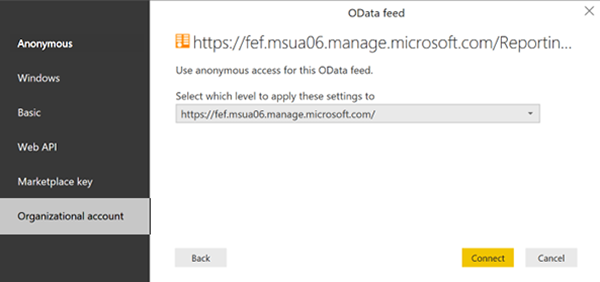
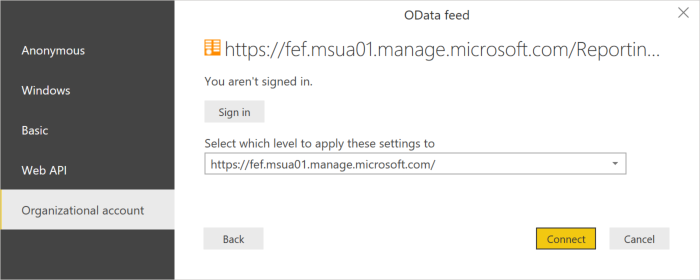
erikre-DOC-1585295

diff --git a/intune/reports-proc-create-with-odata.md b/intune/reports-proc-create-with-odata.md
@@ -1,13 +1,13 @@
 ---
 # required metadata
-title: Create a report from the OData feed with Power BI
+title: Create a Intune report from the OData feed with Power BI
 titleSuffix: Microsoft Intune
 description: Create a treemap visualization using Power BI Desktop with an interactive filter from the Intune Data Warehouse API.
 keywords: Intune Data Warehouse
 author: Erikre
 ms.author: erikre
 manager: dougeby
-ms.date: 07/08/2019
+ms.date: 08/15/2019
 ms.topic: reference
 ms.service: microsoft-intune
 ms.localizationpriority: medium
@@ -26,13 +26,13 @@ ms.custom: intune-classic
 ms.collection: M365-identity-device-management
 ---
 
-# Create a report from the OData feed with Power BI
+# Create an Intune report from the OData feed with Power BI
 
-This article explains how to create a treemap visualization using Power BI Desktop with an interactive filter. For example, your CFO might like to how the overall distribution of devices compares to just company owned to personal devices. The treemap provides insight into the total number of device types. You can review the number of iOS, Android, and Windows devices that are either company owned or personally owned.
+This article explains how to create a treemap visualization of your Intune data using Power BI Desktop that users an interactive filter. For example, your CFO might like to know how the overall distribution of devices compares between company owned deviceds and personal devices. The treemap provides insight into the total number of device types. You can review the number of iOS, Android, and Windows devices that are either company owned or personally owned.
 
 ## Overview of creating the chart
 
-To create this chart, you must:
+To create this chart, you will:
 1. Install Power BI Desktop if you don't already have it.
 2. Connect to the Intune Data Warehouse data model and retrieve current data for the model.
 3. Create or manage the data model relationships.
@@ -44,7 +44,7 @@ To create this chart, you must:
 
 You work with tables in Power BI. A table contains data fields. Each data field has a data type. The field can only contain data of the data type. Data types are numbers, text, dates, and so on. The tables in Power BI fill with recent historical data from your tenant when you load the model. Although the specific data changes with time, the table structure won't change unless the underlying data model is updated.
 
-You may be confused by the use of the term _entity_ and _table_. The data model is accessible through an OData feed. In the universe of the OData, the containers that are called tables in Power BI are called entities. These terms both refer to the same thing that holds your data.
+You may be confused by the use of the term *entity* and *table*. The data model is accessible through an OData (Open Data Protocol) feed. In the universe of the OData, the containers that are called tables in Power BI are called entities. These terms both refer to the same thing that holds your data. For more information about OData, see the [OData Overview](/odata/overview).
 
 ## Install Power BI Desktop
 
@@ -56,49 +56,49 @@ Install the latest version of Power BI Desktop. You can download Power BI Deskto
 > You need permission to **Reports** in Intune. For more information, see [Authorization](reports-api-url.md).
 
 1. Sign in to [Intune](https://go.microsoft.com/fwlink/?linkid=2090973).
-3. Open the **Intune Data Warehouse** pane by selecting the Data Warehouse link under **Other tasks** on the right side of the **Microsoft Intune - Overview** blade.
-4. Copy the custom feed URL. For example:
+2. Open the **Intune Data Warehouse** pane by selecting the Data Warehouse link under **Other tasks** on the right side of the **Microsoft Intune - Overview** blade.
+3. Copy the custom feed URL. For example:
 `https://fef.tenant.manage.microsoft.com/ReportingService/DataWarehouseFEService?api-version=beta`
-1. Open Power BI Desktop.
-2. Choose **Get Data** > **Odata feed**.
-3. Paste the custom feed URL into the URL box in the **OData feed** window.
-4. Select **Basic**.
+4. Open Power BI Desktop.
+5. From the menubar, select **File** > **Get Data** > **Odata feed**.
+6. Paste the custom feed URL, that you copied from the earlier step, into the URL box in the **OData feed** window.
+7. Select **Basic**.
 
     ![OData feed for the Intune Data Warehouse for your tenant](media/reports-create-01-odatafeed.png)
 
-9. Select **OK**.
-10. Select **Organization account**, and then sign in with your Intune credentials.
+8. Select **OK**.
+9. Select **Organization account**, and then sign in with your Intune credentials.
 
     ![Organizational account credentials](media/reports-create-02-org-account.png)
 
-11. Select **Connect**. The Navigator will open and show you the list of tables in the Intune Data Warehouse.
+10. Select **Connect**. The Navigator will open and show you the list of tables in the Intune Data Warehouse.
 
     ![Screenshot of the Navigator - The list of Data Warehouse tables](media/reports-create-02-loadentities.png)
 
-12. Select the **devices** and the **ownerTypes** tables.  Select **Load**. Power BI loads data to the model.
+11. Select the **devices** and the **ownerTypes** tables.  Select **Load**. Power BI loads data to the model.
 
 ## Create a relationship
 
-You can import multiple tables to analyze not just the data in a single table but related data across tables.  PowerBI has a feature called **autodetect** that attempts to find and create relationships for you. The tables in the Data Warehouse have been built to work with PowerBI's autodetect feature. However, even if PowerBI doesn't automatically find the relationships you still manage the relationships.
+You can import multiple tables to analyze not just the data in a single table but related data across tables.  PowerBI has a feature called **autodetect** that attempts to find and create relationships for you. The tables in the Data Warehouse have been built to work with PowerBI's autodetect feature. However, even if PowerBI doesn't automatically find the relationships, you can still manage the relationships.
 
 ![Manage relationships of related data across tables](media/reports-create-03-managerelationships.png)
 
 1. Select **Manage Relationships**.
 2. Select **Autodetect...** if PowerBI has not already detected the relationships.
 
-The relationship is displayed in a From column to a To column. In this example, the data field **ownerTypeKey** in the **devices** table links to the data field **ownerTypeKey** in the **ownerTypes** table. You use the relationship to look up plain name of the device type code in the **devices** table.
+The relationship is displayed in a From column to a To column. In this example, the data field **ownerTypeKey** in the **devices** table links to the data field **ownerTypeKey** in the **ownerTypes** table. You use the relationship to look up the plain name of the device type code in the **devices** table.
 
 ## Create a treemap visualization
 
-A treemap chart shows hierarchical data as boxes with in boxes. Each branch of the hierarchy is a box contains smaller boxes showing subbranches. You can use Power BI desktop to create a treemap of your Intune data.
+A treemap chart shows hierarchical data as boxes within boxes. Each branch of the hierarchy is a box contains smaller boxes showing sub-branches. You can use Power BI desktop to create a treemap of your Intune tenant data that shows relative amounts of device manufacturer types.
 
 ![Power BI treemap visualizations](media/reports-create-03-treemap.png)
 
-1. Select a chart type. Select **Treemap**.
-2. In the data model, find the **devices** table.
-3. Expand the **devices table** and select the **manufacturer** data field in the **Fields** panel.
-4. Drag the **manufacturer** data field to the Treemap chart on the report canvas.
-5. Drag the **deviceKey** data field from the **devices** table to the **Values** section under the **Visualizations** pane and drop on the box labeled **Drag data field here**.  
+1. In the **Visualizations** pane, find and select **Treemap**. The **Treemap** chart will be added to the report canvas.
+2. In the **Fields** pane, find the `devices` table.
+3. Expand the `devices` table and select the `manufacturer` data field.
+4. Drag the `manufacturer` data field to the report canvas and drop it on the **Treemap** chart.
+5. Drag the `deviceKey` data field from the `devices` table to the **Visualizations** pane and drop it on under the **Values** section in the box labeled **Add data fields here**.  
 
 You now have a visual that shows the distribution of manufacturers of devices within your organization.
 
@@ -108,18 +108,19 @@ You now have a visual that shows the distribution of manufacturers of devices wi
 
 You can add a filter to your treemap so that you can answer additional questions using your app.
 
+1. To add a filter, select the report canvas, and then select the **Slicer icon** (![Treemap with data model and supported relationships](media/reports-create-slicer.png)) under **Visualizations**. The empty **Slicer** visualization will appear on the canvas.
+2. In the **Fields** pane, find the `ownerTypes` table.
+3. Expand the `ownerTypes` table and select the `ownerTypeName` data field.
+4. Drag the `onwerTypeName` data field from the `ownerTypes` table to the **Filters** pane and drop it on under the **Filters on this page** section in the box labeled **Add data fields here**.  
 
-1. To add a filter, select the report canvas, and then select the **Slicer icon** (![Treemap with data model and supported relationships](media/reports-create-slicer.png)) under **Visualizations**.
-2. Find the **ownerTypes** table and drag the **ownerTypeName** data field under the **Filters** section in the **Visualizations** panel.  
-
-   Under the devices table, there's a data field called **OwnerTypeKey** that contains a code as to whether a device is company-owned or personal. Since you would like to show friendly names in this filter, look for the **ownerTypes** table and drag the **ownerTypeName**. This example shows how the data model supports relationships between tables.
+   Under the `OwnerTypes` table, there's a data field called `OwnerTypeKey`that contains a data as to whether a device is company-owned or personal. Since you would like to show friendly names in this filter, look for the `ownerTypes` table and drag the **ownerTypeName** to the Slicer. This example shows how the data model supports relationships between tables.
 
 ![Treemap with filter - Supports relationships between tables](media/reports-create-08_ownertype.png)
 
 You now have an interactive filter that can be used to toggle between company owned and personally owned devices. Use this filter to see how the distribution changes.
 
-1. Select **Company** to see that the company owned device distribution.
-2. Select **Personal** to see the personally owned devices.
+1. Select **Company** within the Slicer to see that the company owned device distribution.
+2. Select **Personal** within the Slicer to see the personally owned devices.
 
 ## Next steps
 
